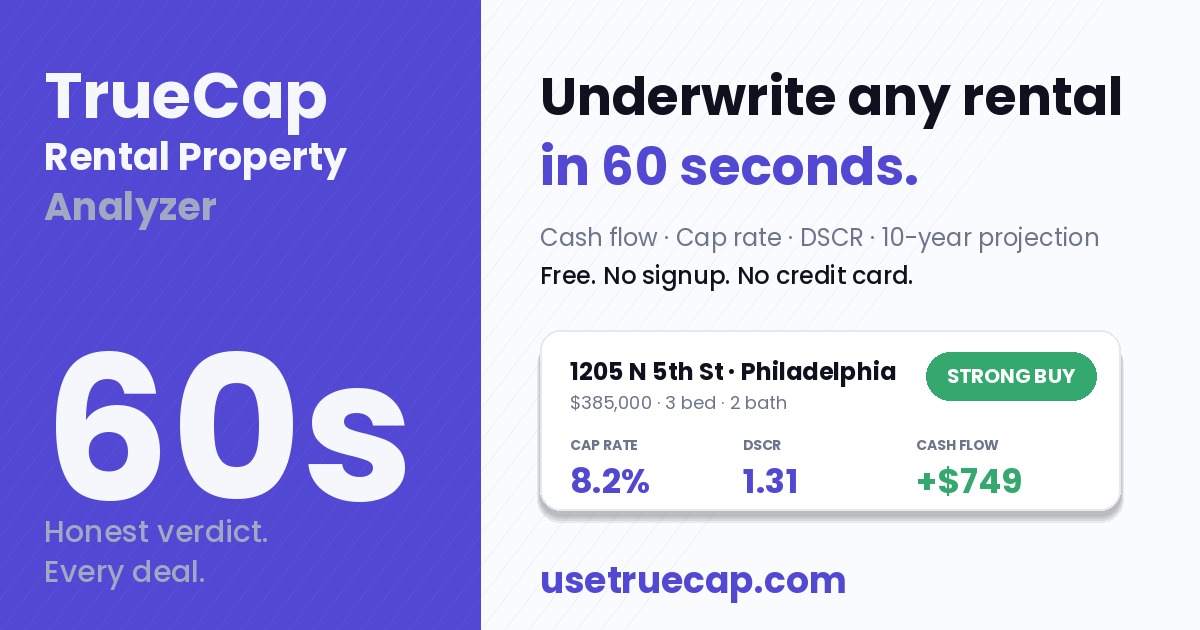
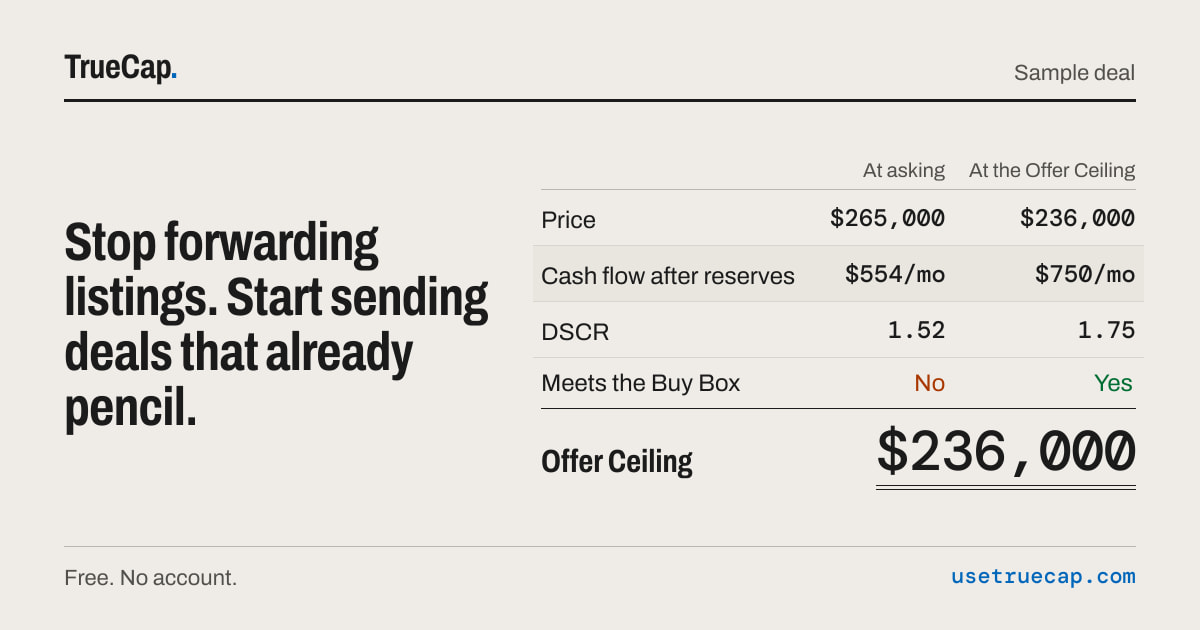
Redraw the default social card from the current homepage card
Report row P1-02. public/home.jpg was last drawn on 2026-06-05: the old
purple brand, a "STRONG BUY" badge the product now words as "Strong
screening result", "10-year projection" (a Pro feature) above "Free. No
signup. No credit card.", and an unlabeled street address. It stays a
file at the same URL, because every page without a card of its own, the
market metadata builder and the Article JSON-LD name it, and a page-level
openGraph without an image ships no og:image at all.

The new picture is exactly what GET /og/home draws: the homepage headline
beside the sample deal's ledger, labeled "Sample deal", every figure read
from the engine. scripts/render-default-social-card.ts calls that route
handler under Node (no build, no server), refuses to write if any of the
card's three faces fails to load, checks the result is 1200 x 630 and
encodes a JPEG:

    npx -y tsx scripts/render-default-social-card.ts

Two runs produced the same 71,198 bytes. The file is a snapshot: re-run
the script when the homepage headline, the sample deal or the card frame
changes (the route's comment now says so).

The founder should look at the new image before this merges. It carries
the agent headline, which is also what pages for investors (markets,
glossary, /for-investors through /og/home) will preview with.

diff --git a/scripts/render-default-social-card.ts b/scripts/render-default-social-card.ts
@@ -1,0 +1,108 @@
+/**
+ * Redraw public/home.jpg, the default social card, from the current homepage
+ * card, under Node. No build and no server.
+ *
+ *   npx -y tsx scripts/render-default-social-card.ts
+ *   npx -y tsx scripts/render-default-social-card.ts --out /tmp/home.jpg
+ *
+ * WHY THE FILE EXISTS. /home.jpg is the og:image of every page that has no
+ * card of its own (the market, state and glossary pages, /about, /methodology
+ * and the rest), of the root layout, and the `image` of the Article JSON-LD.
+ * A page-level openGraph without an image ships no og:image at all, so those
+ * pages need a real file at a stable URL. It was last drawn in June 2026 with
+ * the old brand and a "STRONG BUY" badge the product no longer shows.
+ *
+ * WHAT IT DRAWS. Exactly what GET /og/home answers (app/og/home/route.tsx):
+ * the homepage headline beside the sample deal's ledger, every figure read
+ * from the engine. This script calls that route handler, so the file and the
+ * homepage's own card cannot disagree on the day it is run. It is a
+ * snapshot: re-run it when the homepage headline, the sample deal or the card
+ * frame (lib/og/newsprint.tsx) changes, look at the result, and commit it.
+ *
+ * It needs network access to fonts.googleapis.com (the card's three faces).
+ * If a face does not load it exits non-zero and writes nothing, because the
+ * route itself would fall back to next/og's built-in face and this file is
+ * kept for months. The output is checked to be 1200 x 630 before it is
+ * written; lib/__tests__/public-metadata-contract.test.ts checks the
+ * committed file's size too.
+ */
+
+import { writeFileSync } from "node:fs";
+import { resolve } from "node:path";
+import { GET } from "@/app/og/home/route";
+import { loadNewsprintFonts, NEWSPRINT, OG_SIZE } from "@/lib/og/newsprint";
+
+const DEFAULT_OUT = "public/home.jpg";
+
+/**
+ * The part of sharp this script uses. sharp is installed as one of Next's
+ * optional dependencies, not declared in package.json, so it is loaded at run
+ * time and typed here: a static import would make the type check (which
+ * `next build` runs over scripts/ too) depend on an optional package.
+ */
+type ImageInfo = { format?: string; width?: number; height?: number };
+type ImagePipeline = {
+  metadata(): Promise<ImageInfo>;
+  flatten(options: { background: string }): ImagePipeline;
+  jpeg(options: { quality: number; chromaSubsampling: string; mozjpeg: boolean }): ImagePipeline;
+  toBuffer(): Promise<Buffer>;
+};
+type Sharp = (input: Buffer) => ImagePipeline;
+
+async function loadSharp(): Promise<Sharp> {
+  const name = "sharp";
+  try {
+    const mod = (await import(name)) as { default: Sharp };
+    return mod.default;
+  } catch {
+    throw new Error("sharp is not installed (it comes with next); nothing written");
+  }
+}
+
+async function main(): Promise<void> {
+  const sharp = await loadSharp();
+  const outFlag = process.argv.indexOf("--out");
+  const out = resolve(
+    process.cwd(),
+    outFlag > -1 && process.argv[outFlag + 1] ? process.argv[outFlag + 1] : DEFAULT_OUT,
+  );
+
+  // The same loader the route uses, cached per process: asking first means
+  // the route below draws with these faces or this script stops here.
+  const fonts = await loadNewsprintFonts({ display: "TrueCap", text: "TrueCap", mono: "0" });
+  if (!fonts || fonts.length < 3) {
+    throw new Error(
+      `only ${fonts?.length ?? 0} of the card's 3 faces loaded from Google Fonts; nothing written`,
+    );
+  }
+
+  const response = await GET();
+  if (!response.ok) throw new Error(`/og/home answered ${response.status}`);
+  const png = Buffer.from(await response.arrayBuffer());
+
+  const drawn = await sharp(png).metadata();
+  if (drawn.width !== OG_SIZE.width || drawn.height !== OG_SIZE.height) {
+    throw new Error(
+      `the card is ${drawn.width} x ${drawn.height}, expected ${OG_SIZE.width} x ${OG_SIZE.height}`,
+    );
+  }
+
+  // 4:4:4 keeps the hairline rules and the small ledger figures sharp; the
+  // card is flat paper and ink, so the file stays small at a high quality.
+  const jpeg = await sharp(png)
+    .flatten({ background: NEWSPRINT.paper })
+    .jpeg({ quality: 90, chromaSubsampling: "4:4:4", mozjpeg: true })
+    .toBuffer();
+  const written = await sharp(jpeg).metadata();
+  if (written.format !== "jpeg" || written.width !== OG_SIZE.width || written.height !== OG_SIZE.height) {
+    throw new Error(`the encoded file is ${written.format} ${written.width} x ${written.height}`);
+  }
+
+  writeFileSync(out, jpeg);
+  console.log(`${out}: ${written.width} x ${written.height} JPEG, ${jpeg.length} bytes`);
+}
+
+main().catch((error) => {
+  console.error(error instanceof Error ? error.message : error);
+  process.exit(1);
+});

diff --git a/app/og/home/route.tsx b/app/og/home/route.tsx
@@ -15,8 +15,12 @@ import { formatDscr } from "@/lib/financial-presentation";
  * the engine (lib/sample-deal-ledger.ts, the same pure calculation the page
  * uses; CLAUDE.md §3.6 allows it here). No screenshot, so the card never
  * shows a stale capture. If the ledger cannot be built the card degrades to
- * the headline alone, never to a placeholder. /home.jpg stays the static
- * fallback for surfaces that do not use this route.
+ * the headline alone, never to a placeholder.
+ *
+ * public/home.jpg, the image of every page with no card of its own, is a
+ * snapshot of this card: scripts/render-default-social-card.ts calls this
+ * handler and writes the JPEG. Re-run it when the headline, the sample deal
+ * or the frame changes, so the default card and this one stay the same card.
  *
  * A route handler rather than the app/opengraph-image file convention on
  * purpose: a root-level file image is inherited by every child segment and
